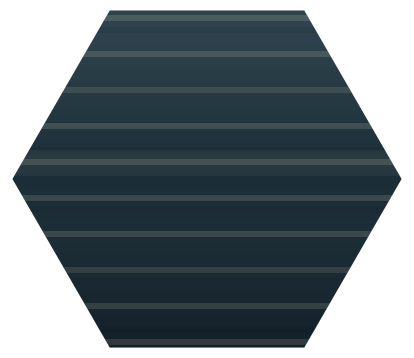
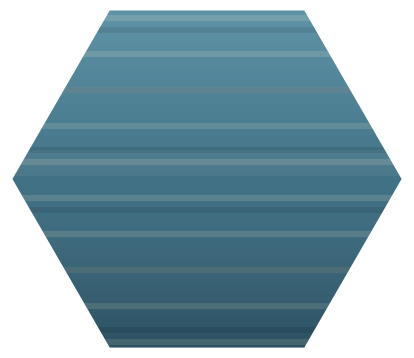
a lighter tide, and shop prose that cannot outlive its own numbers
TIDE goes from 0x243b45 to 0x578ea3 (Marc, on the phone: "change the tide
color to a lighter blue so it has a better contrast vs moss"). It was value
0.172 against moss's 0.233 — the tide sat a hair DARKER than the moss, which
is why the two read as one dark mass.

How much lighter was not a free choice: ember sits at 0.374 and the
greyscale rule wants 0.05 between neighbours, so the band from 0.324 to
0.424 is closed — a tide in there collides with ash instead of moss. This
takes the zone above ember: value 0.451, which puts 0.218 of pure value
between tide and moss where there were 0.061, and still leaves 0.077 to
ember below and 0.197 to sand above. The terrain PNGs are re-baked, and the
bake's own greyscale check now prints green < red < blue < yellow.

And the shop stops being able to lie. Every perk and upgrade magnitude was
written twice in progress.ts — once in the prose the shop prints ("+5 tiles
to start every run", "cost 1 less", "at double cost", "Draft five tiles")
and again two hundred lines away in applyProgress, where the dial is
actually set. Nothing tied them together and no test read the prose, so
tuning any of them made the shop describe something the player was not
buying. Both sides read UPGRADE_STEPS and PERK_DIALS from src/content/ now,
which is also where CLAUDE.md says balance numbers live.

648 tests, 11 e2e, sim unmoved.

diff --git a/src/meta/progress.ts b/src/meta/progress.ts
@@ -1,3 +1,4 @@
+import { PERK_DIALS, UPGRADE_STEPS } from '@content/goals';
 import type { Tuning } from '@content/tuning';
 import { rngNext, stream } from '@engine/rng';
 
@@ -55,7 +56,7 @@ export const UPGRADES: readonly Upgrade[] = [
   {
     id: 'tiles',
     name: 'DEEPER PURSE',
-    note: '+5 tiles to start every run.',
+    note: `+${UPGRADE_STEPS.tiles} tiles to start every run.`,
     cost: 20,
     levels: 8,
   },
@@ -83,7 +84,7 @@ export const UPGRADES: readonly Upgrade[] = [
   {
     id: 'sense',
     name: 'KEEN NOSE',
-    note: 'Hidden finds shimmer when your ground grows near — farther each level.',
+    note: `Hidden finds shimmer when your ground grows near — +${UPGRADE_STEPS.sense} hexes farther each level.`,
     cost: 40,
     levels: 3,
   },
@@ -114,22 +115,22 @@ export const PERKS: readonly Perk[] = [
   {
     id: 'secondwind',
     name: 'SECOND WIND',
-    note: 'The first time a run would end broke, a coin is flipped. Half the time you carry on with 20 tiles. Half the time you do not.',
+    note: `The first time a run would end broke, a coin is flipped: ${Math.round(PERK_DIALS.secondWindChance * 100)}% of the time you carry on with ${PERK_DIALS.secondWindTiles} tiles, and the rest of the time you do not.`,
   },
   {
     id: 'stonewalker',
     name: 'STONEWALKER',
-    note: 'Placements beside stone cost 1 less.',
+    note: `Placements beside stone cost ${PERK_DIALS.stoneDiscount} less.`,
   },
   {
     id: 'wallbreaker',
     name: 'WALLBREAKER',
-    note: 'Walls can be built on, at double cost.',
+    note: `Walls can be built on, at ${PERK_DIALS.wallBuildCostMult}× cost.`,
   },
   {
     id: 'openhand',
     name: 'OPEN HAND',
-    note: 'Draft five tiles. No stash.',
+    note: `Draft ${PERK_DIALS.openHandDraft} tiles. No stash.`,
   },
 ];
 
@@ -329,30 +330,35 @@ export function applyProgress(tuning: Tuning, progress: Progress): Tuning {
 
   return {
     ...tuning,
-    startingTiles: tuning.startingTiles + level('tiles') * 5,
-    magicChance: tuning.magicChance + level('odds') * 0.02,
-    uniqueChance: tuning.uniqueChance + level('odds') * 0.005,
+    startingTiles: tuning.startingTiles + level('tiles') * UPGRADE_STEPS.tiles,
+    magicChance: tuning.magicChance + level('odds') * UPGRADE_STEPS.magic,
+    uniqueChance: tuning.uniqueChance + level('odds') * UPGRADE_STEPS.unique,
     // RICHER WORLDS buys back what the rebalances took: more destinations out
     // there, and caches worth more when you reach them. Since 2026-08-18 cache
     // value is graded by distance, so the restoration reads differently but
     // stays literal: a maxed base of 18 plus two rings' bonus is 26 — the
     // number caches paid before the floor first came down.
-    destinationChance: Math.min(1, tuning.destinationChance + level('world') * 0.08),
-    cachePays: tuning.cachePays + level('world') * 3,
+    destinationChance: Math.min(
+      1,
+      tuning.destinationChance + level('world') * UPGRADE_STEPS.destination,
+    ),
+    cachePays: tuning.cachePays + level('world') * UPGRADE_STEPS.cache,
     // STEADY PACE buys back the curve the 2026-08-18 rebalance steepened:
     // 22 at run one, +2 a level, 30 — the old curve exactly — at max. The
     // whole point of a steeper start is that this ladder exists.
-    costRisesEvery: tuning.costRisesEvery + level('pace') * 2,
+    costRisesEvery: tuning.costRisesEvery + level('pace') * UPGRADE_STEPS.pace,
     // KEEN NOSE: 2 hexes of shimmer a level, 6 maxed — deliberately under
     // `beaconHorizon` (8), so a shimmer can never become a beacon.
-    findSense: tuning.findSense + level('sense') * 2,
+    findSense: tuning.findSense + level('sense') * UPGRADE_STEPS.sense,
     // The worn perk, as dials. Exactly one of these blocks can fire.
     rootboundOnly: worn.has('rootbound'),
-    secondWindTiles: worn.has('secondwind') ? 20 : 0,
-    secondWindChance: worn.has('secondwind') ? 0.5 : 0,
-    stoneDiscount: worn.has('stonewalker') ? 1 : tuning.stoneDiscount,
-    wallBuildCostMult: worn.has('wallbreaker') ? 2 : tuning.wallBuildCostMult,
-    draftWidth: worn.has('openhand') ? 5 : tuning.draftWidth,
+    secondWindTiles: worn.has('secondwind') ? PERK_DIALS.secondWindTiles : 0,
+    secondWindChance: worn.has('secondwind') ? PERK_DIALS.secondWindChance : 0,
+    stoneDiscount: worn.has('stonewalker') ? PERK_DIALS.stoneDiscount : tuning.stoneDiscount,
+    wallBuildCostMult: worn.has('wallbreaker')
+      ? PERK_DIALS.wallBuildCostMult
+      : tuning.wallBuildCostMult,
+    draftWidth: worn.has('openhand') ? PERK_DIALS.openHandDraft : tuning.draftWidth,
     holdSlots: worn.has('openhand') ? 0 : tuning.holdSlots,
   };
 }

diff --git a/src/content/goals.ts b/src/content/goals.ts
@@ -76,3 +76,45 @@ export const REARM = {
   chance: 1,
   cacheShare: 0.5,
 };
+
+/**
+ * What one level of each shop upgrade is worth, and what each found perk
+ * sets its dial to (2026-08-21).
+ *
+ * They live HERE for the reason everything in this folder does — they are
+ * balance numbers — but the reason they were MOVED is drift. Every one of
+ * them was written twice in `meta/progress.ts`: once in the shop's prose
+ * ("+5 tiles to start every run", "cost 1 less", "at double cost", "Draft
+ * five tiles") and again, two hundred-odd lines away, in `applyProgress`,
+ * where the dial is actually set. Nothing tied the two together and no test
+ * read the prose, so tuning any of them made the shop lie to the player
+ * about what they were buying. The notes interpolate these now, so the
+ * sentence cannot survive the number changing under it.
+ */
+export const UPGRADE_STEPS = {
+  /** DEEPER PURSE: starting tiles per level. */
+  tiles: 5,
+  /** KEENER EYE: added chance per level, per rarity. */
+  magic: 0.02,
+  unique: 0.005,
+  /** RICHER WORLDS: destination chance, and tiles per cache, per level. */
+  destination: 0.08,
+  cache: 3,
+  /** STEADY PACE: placements added to the cost step, per level. */
+  pace: 2,
+  /** KEEN NOSE: hexes of shimmer, per level. */
+  sense: 2,
+};
+
+/** What a worn perk sets, for the shelf's prose and `applyProgress` alike. */
+export const PERK_DIALS = {
+  /** SECOND WIND: the refill, and the odds of getting it. */
+  secondWindTiles: 20,
+  secondWindChance: 0.5,
+  /** STONEWALKER: tiles knocked off a placement beside stone. */
+  stoneDiscount: 1,
+  /** WALLBREAKER: what building on a wall multiplies the cost by. */
+  wallBuildCostMult: 2,
+  /** OPEN HAND: the wider draft it trades the stash for. */
+  openHandDraft: 5,
+};

diff --git a/src/theme/themes/torchlit.ts b/src/theme/themes/torchlit.ts
@@ -176,8 +176,20 @@ export const TORCHLIT: Theme = {
     // should be doing. The overlay is a second horizontal rule, darker and
     // wider-spaced than the first: two ripples instead of one ruling, so the
     // water reads as moving rather than lined.
-    blue: surface(0x243b45, {
-      fillTo: 0x111f28,
+    // LIGHTER since 2026-08-21 (Marc, on the phone: "change the tide color
+    // to a lighter blue so it has a better contrast vs moss"). It was
+    // 0x243b45/0x111f28 — value 0.172 against moss's 0.233, so the tide sat
+    // a hair DARKER than the moss and the two read as one dark mass.
+    //
+    // The choice of how much lighter is not free: ember is 0.374, and the
+    // greyscale rule wants 0.05 between neighbours, so the band from 0.324
+    // to 0.424 is closed — a tide in there collides with ash instead. That
+    // leaves just above moss (~0.30, a small gain) or above ember, and this
+    // takes the second: value 0.451, which puts 0.218 of pure value between
+    // tide and moss where there were 0.061, and still leaves 0.077 to ember
+    // below it and 0.197 to sand above.
+    blue: surface(0x578ea3, {
+      fillTo: 0x2c5568,
       pattern: { kind: 'hatch', angleDeg: 0, ink: 0xffecc8, alpha: 0.14, bar: 1, gap: 5 },
       overlay: { kind: 'hatch', angleDeg: 0, ink: 0x0a161c, alpha: 0.12, bar: 1, gap: 9 },
       asset: 'terrain.blue',
